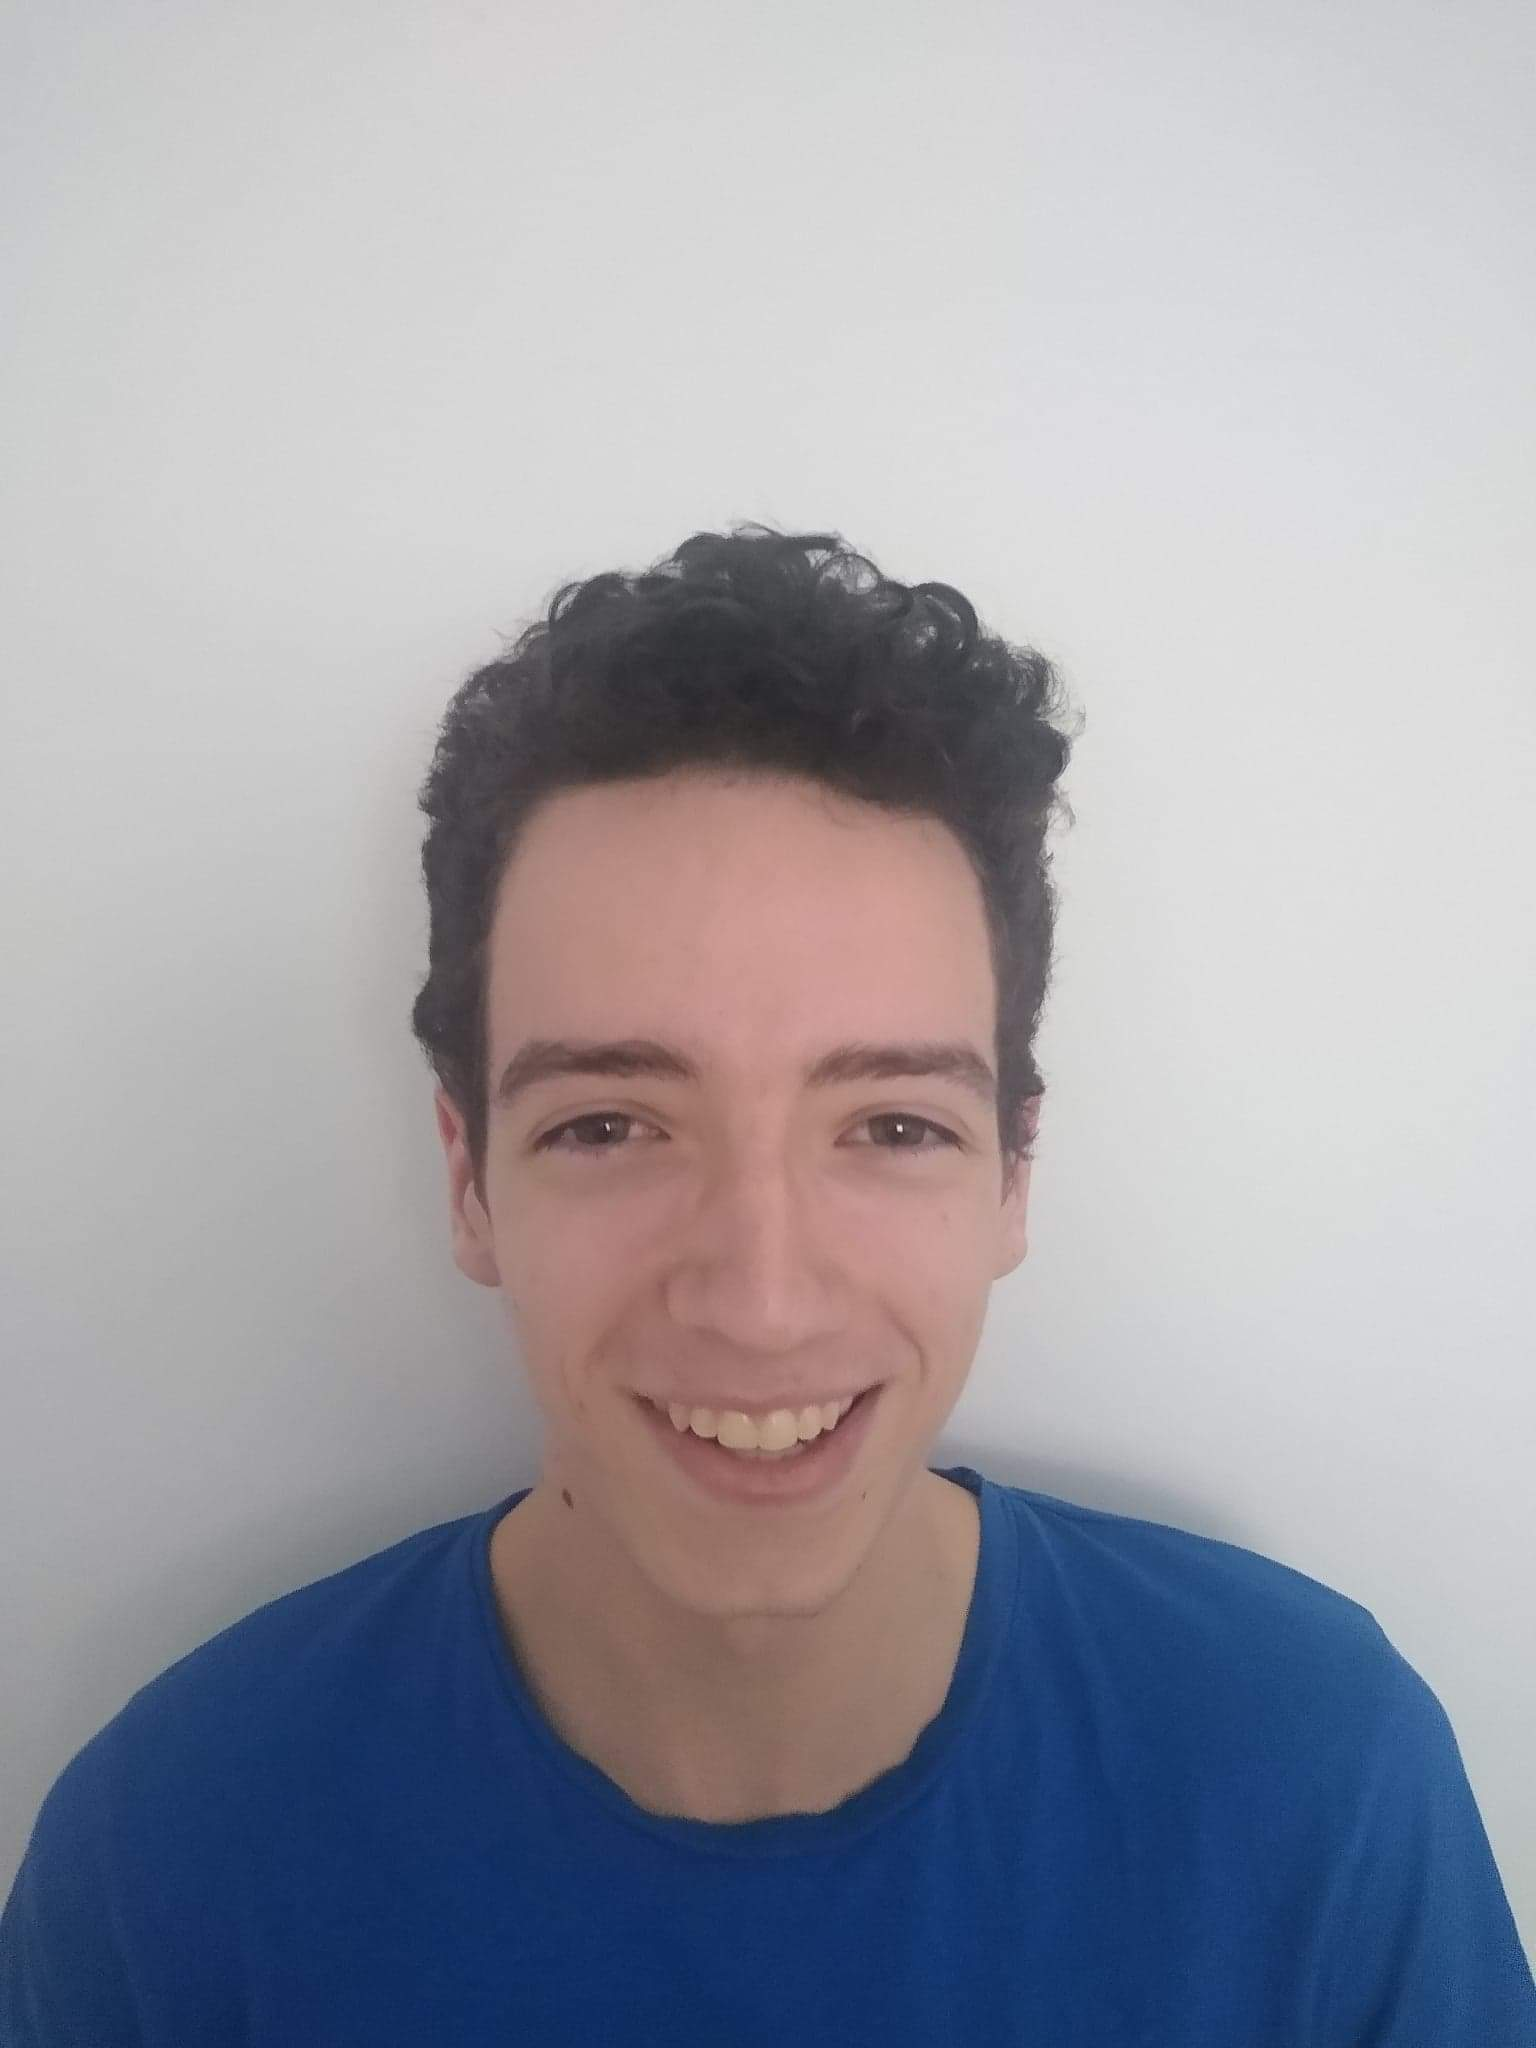
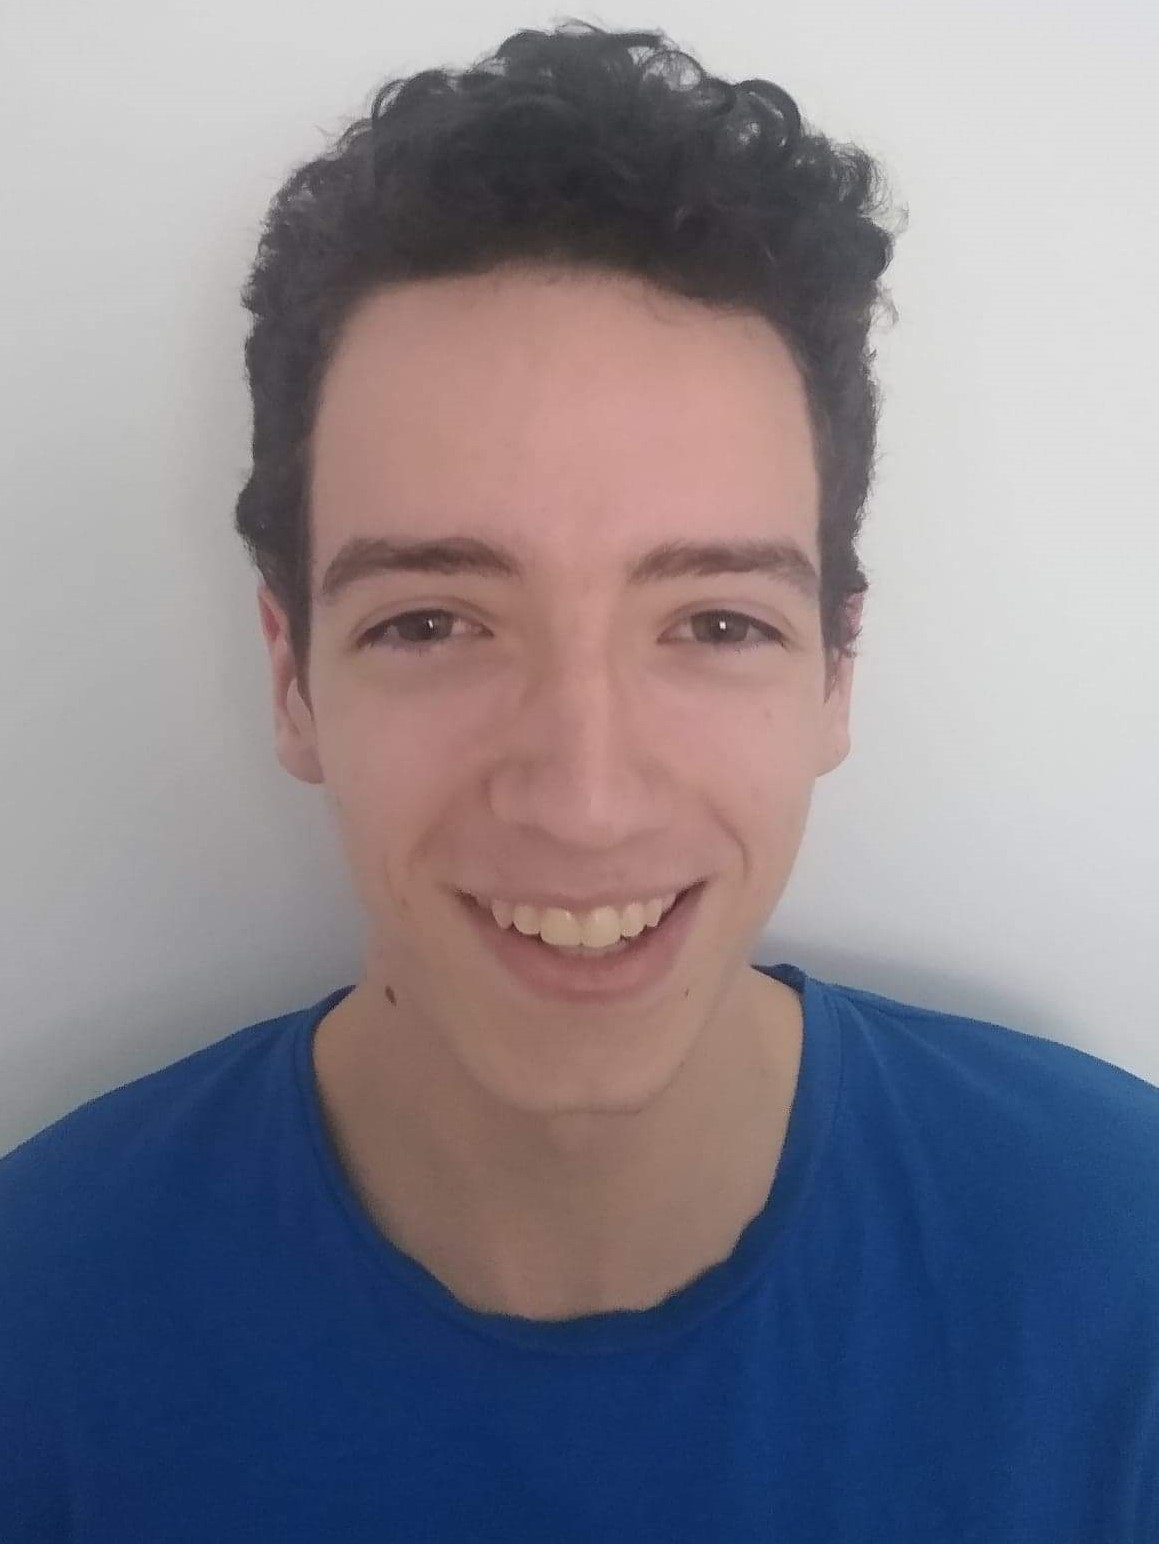
Design Changes

diff --git a/index.html b/index.html
@@ -17,8 +17,8 @@
             <li><strong>KIERAN FOY</strong></li>
             <li><a href="#sectionAbout">ABOUT</a></li>
             <li><a href="#sectionSkills">SKILLS</a></li>
+            <!-- <li><a href="#sectionProjects">PROJECTS</a></li> -->
             <li><a href="#contact">CONTACT</a></li>
-            <!-- \/ Might put something here later but for now its just scaffolding to keep everything aligned \/  -->
             <li></li>
         </ul>
     </nav>
@@ -29,7 +29,6 @@
         <div class="heading">FULL STACK DEVELOPER</div>
 
         <div id="sectionAbout"></div>
-
         <p class="sectionTitle">ABOUT</p>
         <div id="about">
             <div>
@@ -61,8 +60,8 @@
                     dissertation.
                 </div>
             </div>
-            <div>
-                <img src="Media/Kieran.jpeg">
+            <div class="portrait">
+                <img  src="Media/Kieran.jpeg">
             </div>
         </div>
 
@@ -89,6 +88,25 @@
             <img class="logo" src="Media/python-logo.svg"></img>
         </div>
 
+        <!-- <div id="sectionProjects"></div>
+        <p class="sectionTitle">PROJECTS</p>
+        <div id="projects">
+            <div>
+                <div class="paragraph">
+                    Lorem ipsum dolor sit amet, consectetur adipisicing elit. Mollitia at quibusdam dolorem ea? Illum,
+                    aut nihil soluta, dolores nesciunt est ducimus delectus hic iure voluptatum repellat in quo sapiente
+                    exercitationem pariatur dignissimos animi optio perferendis laboriosam veritatis quod! Excepturi
+                    laborum pariatur obcaecati explicabo sunt repellat in veritatis labore nobis repudiandae?
+                </div>
+            </div>
+            <div class="projectPhotos">
+                <img src="Media/ClientProject1.PNG"></img>
+                <img src="Media/ClientProject2.PNG"></img>
+            </div>
+        </div> -->
+
+
+        <div id="sectionContact"></div>
         <p class="sectionTitle">CONTACT</p>
         <div id="contact">
             <div>

diff --git a/Style/desktop.css b/Style/desktop.css
@@ -10,15 +10,14 @@ body {
     background-color: #3E4955;
 }
 
-nav {
-    /* width: 100%; */
-    /* 80px + 20px padding ( 100 height nav ) */
-    height: 80px;
-    padding: 10px;
-    position: sticky;
-    top: 0;
-    background-color: #0B1622;
-    font-size: 18px;
+main {
+    padding: 100px;
+}
+
+main div {
+    display: flex;
+    justify-content: center;
+    border-radius: 5px;
 }
 
 .square {
@@ -27,6 +26,15 @@ nav {
     color: #000000;
     padding: 30px;
     margin-right: 10px;
+}
+
+nav {
+    height: 80px;
+    padding: 10px;
+    position: sticky;
+    top: 0;
+    background-color: #0B1622;
+    font-size: 18px;
 }
 
 nav ul {
@@ -55,7 +63,6 @@ nav li:last-child {
 }
 
 nav li {
-    /* Vertically and horizontally align list items */
     display: flex;
     justify-content: center;
     align-items: center;
@@ -72,22 +79,14 @@ nav li a:hover {
     color: #C4C4C4;
 }
 
-main {
-    padding: 100px;
-}
-
 .heading {
     font-size: 48px;
 }
 
-main div {
-    display: flex;
-    justify-content: center;
-}
-
 #about {
     display: grid;
-    grid-template-columns: 80% 20%;
+    grid-template-columns: 85% 15%;
+    max-height:350px;
 }
 
 #about div {
@@ -99,19 +98,23 @@ main div {
     margin-right: 1em;
 }
 
-#about>div:last-child {
-    background-color: #C4C4C4;
+#skills, #projects, #contact div {
+    background-color: #0B1622;
+    padding: 10px;
+    margin-bottom: 10px;
 }
 
 img {
     max-width: 100%;
     max-height: 100%;
-    border: 1px solid #000000;
+    border-radius: 5px;
 }
 
 .portrait {
-    height: 80px;
-    width: 30px;
+    display: block;
+    max-height:350px;
+    width: auto;
+    height: auto;
 }
 
 .openingWord {
@@ -129,19 +132,12 @@ img {
     font-size: xx-large;
 }
 
-#skills, #contact div {
-    background-color: #0B1622;
-    padding: 10px;
-    margin-bottom: 10px;
-}
-
 .logo {
     max-width: 128px;
     max-height: 128px;
     border: none;
     padding: 1em;
 }
-
 
 a:link {
     color: #FFF;
